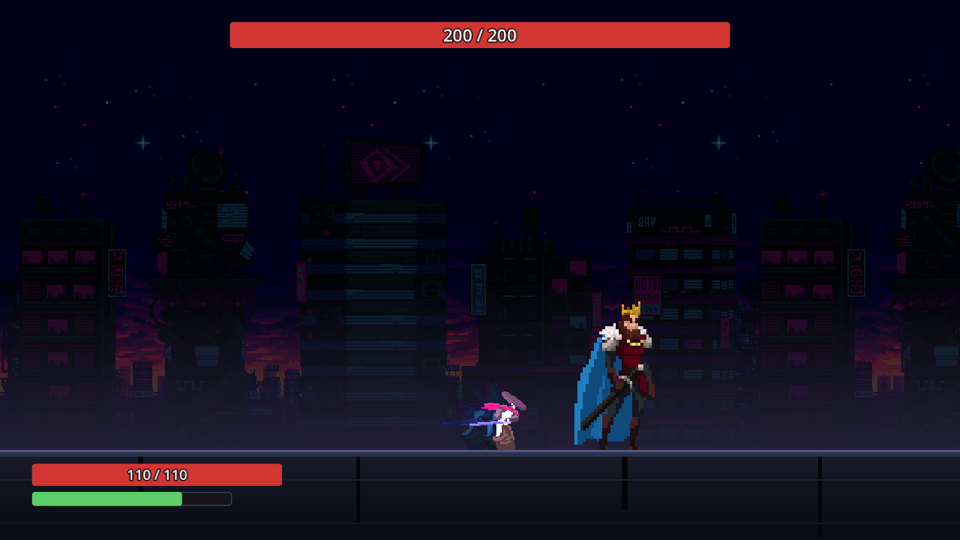
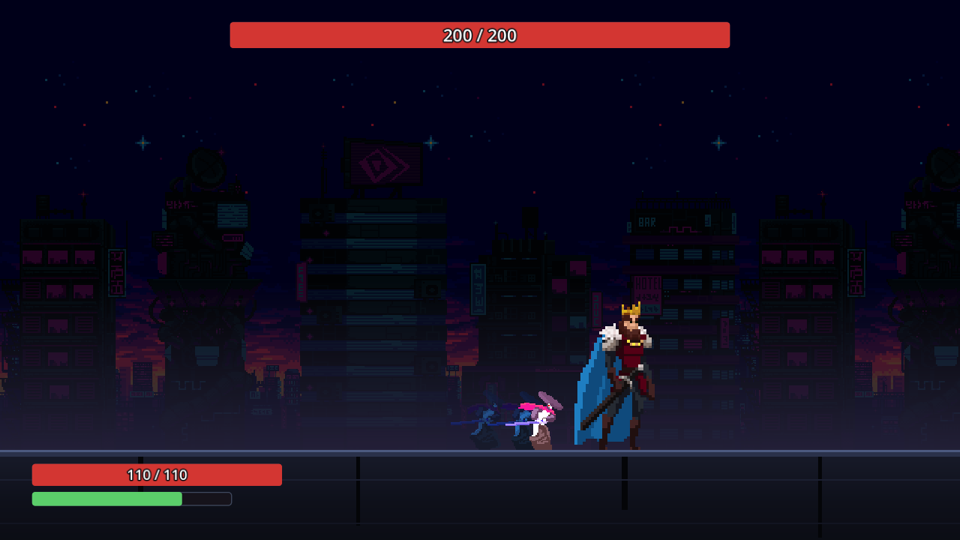
크림슨을 스크린샷으로 증명하고, 축 문서를 2단계 패리로 갱신한다 (#27)
평소 예고(호박색)와 패리 불가(크림슨)가 **같은 눈으로 견줄 수 있어야** 그 연출이 일한다 —
한 장만 있으면 "붉은가" 는 알아도 "다른가" 는 모른다. ShotRunner 가 패리 불가 패턴의
선딜을 기다렸다 한 장 더 찍는다(battle-6b-unparryable). 실제로 두 장을 눈으로 견줬다.

설계 문서 §8 에 2단계 패리와 그 관측을 적었다. 이슈 #16 이 "판정 뒤까지 기다렸다 내보내야
한다" 고 미뤄 둔 숙제를, 늦은 누름에 결과를 주는 쪽으로 풀었다는 기록이다.

Changed region(s): [[0.4688, 0.7111, 0.5938, 0.8296]]

diff --git a/overfit/battle/Battle.cs b/overfit/battle/Battle.cs
@@ -82,6 +82,12 @@ public partial class Battle : Node2D
     /// <summary>파이터의 남은 체력. 위와 같이 디버그 전용 읽기다 — 줄어든 직후가 피격 순간이다.</summary>
     public int FighterHealth => _broken ? 0 : _sim.Fighter.Health;
 
+    /// <summary>
+    /// 지금 도는 패턴이 <b>패리 불가</b>인가. 위와 같이 디버그 전용 읽기다 —
+    /// 크림슨 예고가 화면에서 구별되는지를 스크린샷으로 증명하려면 그 순간을 기다려야 한다.
+    /// </summary>
+    public bool BossUnparryable => !_broken && !_over && !CurrentParryable();
+
     public override void _Ready()
     {
         _fighterView = GetNode<FighterView>("%FighterView");
@@ -435,14 +441,7 @@ public partial class Battle : Node2D
                 : _sim.Fighter.SinceParryPress / _sim.Fighter.PreciseParryWindow,
             _sim.Fighter.Locked));
 
-        // 패리 불가 패턴은 크림슨으로 예고한다(이슈 #27 · 나인 솔즈의 관례).
-        // 태그가 없으면(패턴이 안 도는 중) 받아칠 수 있는 쪽으로 둔다 — 쉬는 보스를 붉게 칠하면
-        // "지금 뭔가 온다" 는 거짓말이 된다.
-        bool parryable = _sim.Boss.CurrentPattern is not string id
-            || !_patterns.TryGetValue(id, out PatternDef? def)
-            || def.Tags.Parryable;
-
-        _bossView.Show(_sim.Boss.X, Phase(), _sim.NextActiveIn, parryable);
+        _bossView.Show(_sim.Boss.X, Phase(), _sim.NextActiveIn, CurrentParryable());
 
         _hud.Show(_sim.Fighter.Health, _fighterConfig.MaxHealth, _sim.Fighter.Stamina, _fighterConfig.MaxStamina,
             _sim.Boss.Health, _bossConfig.MaxHealth);
@@ -464,6 +463,16 @@ public partial class Battle : Node2D
             _ => _walking ? FighterPose.Run : FighterPose.Idle,
         };
     }
+
+    /// <summary>
+    /// 지금 도는 패턴을 받아칠 수 있나 (이슈 #27 · 패리 불가는 크림슨으로 예고한다).
+    /// 패턴이 안 도는 중이면 <b>받아칠 수 있는 쪽</b>으로 둔다 — 쉬는 보스를 붉게 칠하면
+    /// "지금 뭔가 온다" 는 거짓말이 된다.
+    /// </summary>
+    private bool CurrentParryable() =>
+        _sim.Boss.CurrentPattern is not string id
+        || !_patterns.TryGetValue(id, out PatternDef? def)
+        || def.Tags.Parryable;
 
     /// <summary>
     /// 보스가 패턴의 어디쯤인가. 더 올 판정이 있으면 선딜, 없으면 후딜이다 —

diff --git a/overfit/battle/debug/ShotRunner.cs b/overfit/battle/debug/ShotRunner.cs
@@ -96,6 +96,13 @@ public partial class ShotRunner : Node
         await Frames(12);
         await Screenshot.CaptureAsync(this, "battle-6-windup");
 
+        // ── 패리 불가 선딜: 크림슨 ────────────────────────────────────────
+        // 평소 예고(호박색)와 **같은 화면에서 견줄 수 있어야** 이 연출이 일한다.
+        // 두 장이 나란히 없으면 "붉은가" 만 알 수 있고 "다른가" 는 모른다.
+        await Until(() => _battle is { BossWindingUp: true, BossUnparryable: true }, _pollTimeout);
+        await Frames(12);
+        await Screenshot.CaptureAsync(this, "battle-6b-unparryable");
+
         // ── 피격: 체력이 줄어든 바로 다음 프레임 ──────────────────────────
         int before = _battle?.FighterHealth ?? 0;
         await Until(() => (_battle?.FighterHealth ?? 0) < before, _pollTimeout);

diff --git a/docs/superpowers/specs/2026-09-22-전투코어-design.md b/docs/superpowers/specs/2026-09-22-전투코어-design.md
@@ -324,6 +324,27 @@ public readonly record struct InputFrame(
 낮은 판정이 같이 눌러둔 패리의 공이 되고, 그 패리는 "실패한 패리" 로도 세어져 `parry_rate` 까지
 오염된다. 실제로 그랬다. 판정은 안 맞은 이유가 **거리**인지 **높이**인지까지 말한다.
 
+### 패리는 2단계다 (이슈 #27)
+
+| | 창 | 결과 | 관측 |
+|---|---|---|---|
+| **정확** | 적중 0.133초 전 이내 | 피해 0 · 보스 경직 · 기 +1 · 공중 대시 회복 | `verdict=Parried` |
+| **부정확** | 0.133~0.5초 전 | 피해의 50%를 내상 · 지상이면 0.6초 고정 · 기 +1 | `verdict=ParriedLate` |
+| 그 밖 | | 그냥 맞는다 | `verdict=Hit` |
+
+**이게 위 문단이 이슈 #16 으로 미뤄 둔 숙제의 답이다.** "늦어서 못 피했다" 와 "아무것도 안 했다" 가
+`Verb=None · TimingError=0` 이라는 같은 점이었다 — 패리 행동(0.30초)이 끝나면 시작 시각이 사라졌기 때문이다.
+창을 **행동이 아니라 누름**에 붙이고(`Fighter.SinceParryPress`) 중간 단계를 만들자 셋이 세 점으로 갈린다.
+
+- verb 는 정확·부정확 모두 `Parry` 다. 여기서 가르면 `parry_reliance`("다른 수단이 있는데 패리를 골랐나")가
+  늦게 누른 패리를 "패리를 안 골랐다" 로 세게 된다 — **고른 것은 같고 결과가 다르다.**
+- `parry_rate` 의 분자는 **정확만**이다. 부정확은 절반을 흘리고 굳으므로 성공으로 세면 두 결과가 한 점이 된다.
+- 부정확의 수는 축이 아니라 **개수**(`parry_late_n`)로 싣는다 — 10축 계약은 그대로다.
+- **연타 징벌:** 앞 누름의 부정확 창 안에서 또 누르면 정확 창이 0.1초로 줄고 그 뒤로는 사라진다.
+  받아낸 누름은 사슬을 푼다 — 그래서 "공격이 안 오는데 난사했나" 를 보스에게 묻지 않고도 같은 규칙이 선다.
+  이건 감각만이 아니라 **학습 데이터 품질**이다: 매 틱 회피를 고르는 봇이 난사로 공짜 성능을 얻으면
+  그 데이터는 사람의 판단을 안 담는다.
+
 verb 는 다섯이다 — `Dash` · `Jump` · `Parry` · `None` · **`Spacing`**. 마지막이 "거리로 빗나갔다" 이고,
 그것을 `None`(아무것도 안 하고 서 있었다)과 따로 두는 이유는 둘이 **다른 사실**이기 때문이다:
 `Spacing` 은 행동이 아니라 **서 있던 자리**가 피하게 한 것이라 타이밍도 방향도 없다.
@@ -356,7 +377,8 @@ verb 는 다섯이다 — `Dash` · `Jump` · `Parry` · `None` · **`Spacing`**
   체류 시간보다 피격 순간의 고도가 바로 그 답이라, 재고 있던 쪽이 원래 쓰려던 쪽보다 낫다.
 - `*_timing_bias` 의 "음수면 이르다" 를 걷었다. 관측은 판정이 서는 틱에 그 시점 이미 시작돼 있던
   행동만 보므로 값이 **항상 ≤ 0** 이다 — "음수면" 이 아무 정보도 나르지 않았다.
-  "늦어서 못 피했다" 를 "아무것도 안 했다" 와 가르려면 판정 뒤까지 기다렸다 내보내야 한다(이슈 #16).
+  "늦어서 못 피했다" 를 "아무것도 안 했다" 와 가르는 것은 **판정 뒤까지 기다리는 대신** 부정확 패리가 했다
+  (이슈 #27 · 위 표). 늦게 누른 것도 규칙 안에서 무언가를 하므로 관측이 그 자리에서 셋을 가른다.
 
 **두 의존도 축을 조건부로 고쳐 적었다(구현 뒤).** 처음 구현은 `jumps / 전체 관측` — 그냥 사용 비율이었다.
 그것은 "점프에 의존한다" 와 **"점프로만 피할 수 있는 패턴만 만났다"** 를 구별하지 못한다. 둘은 봉인할 것이
